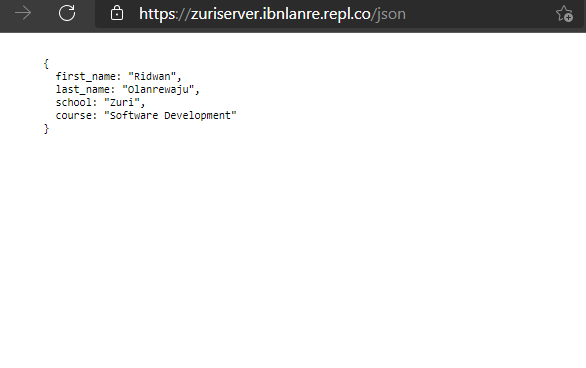
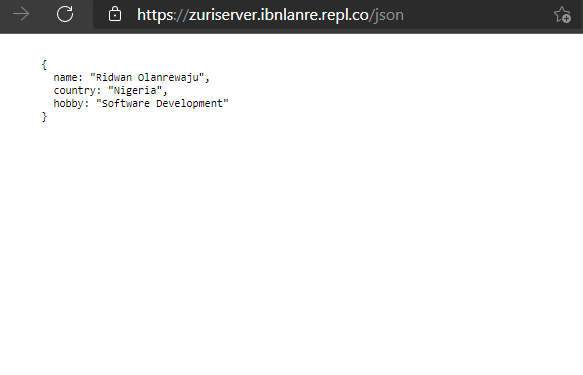
change the json output

diff --git a/index.js b/index.js
@@ -21,10 +21,9 @@ const server = http.createServer((req, res) => {
     res.writeHead(200, { "Content-Type": "application/json" });
     res.end(`
       {
-        first_name: "Ridwan",
-        last_name: "Olanrewaju",
-        school: "Zuri",
-        course: "Software Development"
+        name: "Ridwan Olanrewaju",
+        country: "Nigeria",
+        hobby: "Software Development"
       }
     `)
   } else {
